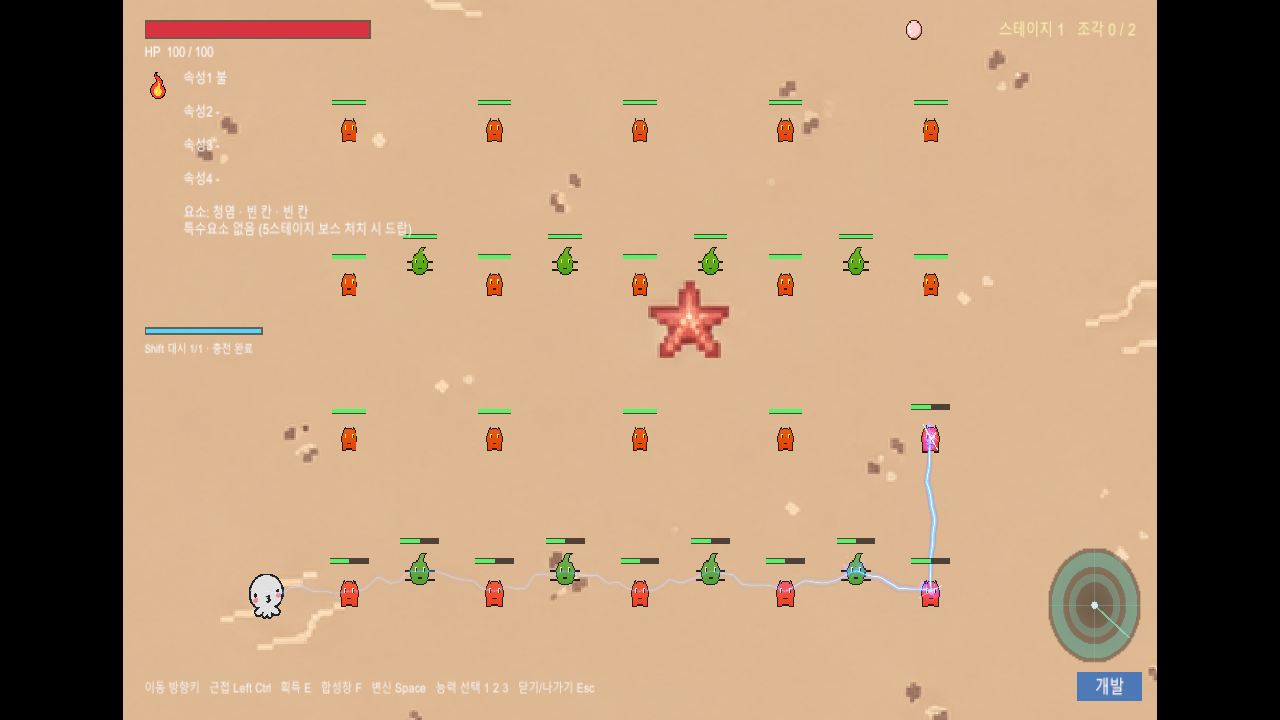
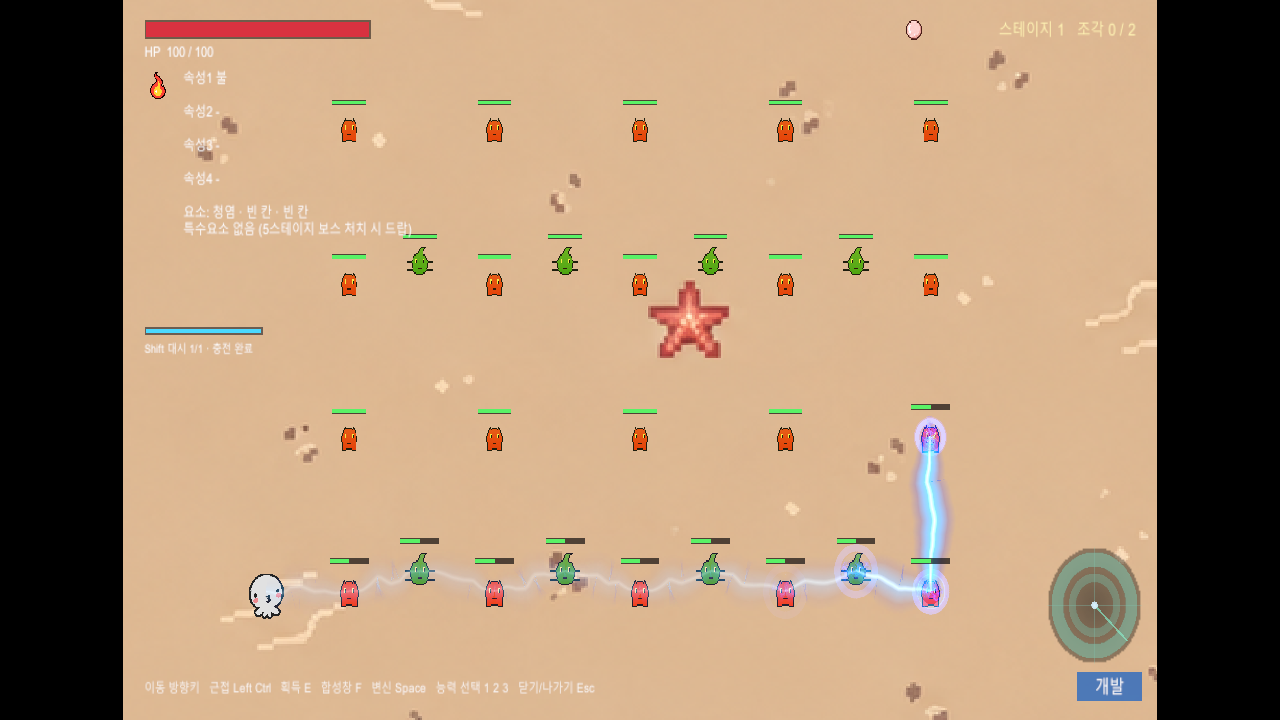
속성: 청염 5배 B농도와 몬스터 맞춤 적중 원 적용

Changed region(s): [[0.375, 0.5806, 0.75, 0.8556], [0.3125, 0.7639, 0.3438, 0.825], [0.25, 0.7944, 0.2812, 0.8556]]

diff --git a/Source/문어_유한맵/Assets/Scripts/Elements/BlueFlameVisual.cs b/Source/문어_유한맵/Assets/Scripts/Elements/BlueFlameVisual.cs
@@ -14,8 +14,10 @@ namespace OctopusSurvivors
         readonly Vector3[] vertices = new Vector3[Points * 3];
         readonly Color[] colors = new Color[Points * 3];
         readonly SpriteRenderer[] embers = new SpriteRenderer[6];
-        SpriteRenderer impact, flame, flameBody, sourceFlare;
+        SpriteRenderer impact, impactHalo, flame, flameBody, sourceFlare;
         float age, duration, seed;
+        float targetDiameter=.7f;
+        bool targetSized;
         bool initialized;
 
         [RuntimeInitializeOnLoadMethod(RuntimeInitializeLoadType.SubsystemRegistration)]
@@ -24,6 +26,9 @@ namespace OctopusSurvivors
         public void Configure(float serverAge, float lifetime)
         {
             age = serverAge; duration = lifetime;
+            if(!targetSized && WorldView.Instance!=null &&
+                WorldView.Instance.TryEnemyBodyDiameter(transform.TransformPoint(Vector3.right),out float diameter))
+            {targetDiameter=diameter;targetSized=true;}
             if (initialized) return;
             initialized = true;
             seed = Mathf.Repeat(transform.position.x * .73f + transform.position.y * 1.37f, 19f);
@@ -54,7 +59,8 @@ namespace OctopusSurvivors
                 var renderer = go.AddComponent<MeshRenderer>(); renderer.sharedMaterial = i == 0 ? bodyMaterial : glowMaterial;
                 renderer.sortingOrder = 13 + i; ribbons[i] = mesh;
             }
-            impact = Sprite("Impact halo", SpriteFactory.Circle(Color.white), 16);
+            impact = Sprite("Impact ring", SpriteFactory.Ring(Color.white), 16);
+            impactHalo = Sprite("Impact halo", SpriteFactory.Circle(Color.white), 15);
             sourceFlare = Sprite("Departure spark", SpriteFactory.Circle(Color.white), 16);
             flame = Sprite("Original blue flame", null, 17);
             flameBody = Sprite("Blue flame color density", null, 16);
@@ -119,17 +125,19 @@ namespace OctopusSurvivors
             float arrived = time >= FlightSeconds ? 1f : 0f;
             float hit = arrived * Mathf.Exp(-impactAge * 15f) * lifeFade;
             float intensity = Mathf.Clamp(UpgradeTuning.Data.blueFlameImpactIntensity,1f,4f);
-            Place(impact, Vector3.right, new Vector2(.32f + impactAge * .9f, .32f + impactAge * .9f) * width / scale,
-                new Color(.03f,.3f,1f,Mathf.Min(1f,hit * .35f * intensity)));
+            float bodySize=targetDiameter*Mathf.Max(.5f,UpgradeTuning.Data.blueFlameImpactBodyScale);
+            float ringSize=targetDiameter*Mathf.Lerp(1.05f,UpgradeTuning.Data.blueFlameImpactRingScale,Mathf.Clamp01(impactAge/.18f));
+            float ringFade=arrived*Mathf.Clamp01(1f-impactAge/.28f)*lifeFade;
+            Place(impact,Vector3.right,Vector2.one*ringSize/scale,new Color(.08f,.5f,1f,Mathf.Min(1f,ringFade*.65f*intensity)));
+            Place(impactHalo,Vector3.right,Vector2.one*bodySize/scale,new Color(.03f,.3f,1f,Mathf.Min(1f,hit*.25f*intensity)));
             float start = Mathf.Exp(-time * 22f) * lifeFade;
             Place(sourceFlare, Vector3.left, Vector2.one * .14f * width / scale, new Color(.25f,.8f,1f,start));
             flame.sprite = HdSpellVisual.Frame("ComboAtlas", 6, 20 + Mathf.Min(3, (int)(impactAge * 16f)));
             float flameAlpha = arrived * Mathf.Clamp01(1f - impactAge / .32f) * lifeFade;
-            float aspect = flame.sprite != null ? flame.sprite.bounds.size.x / flame.sprite.bounds.size.y : 1f;
-            Place(flame, Vector3.right + Vector3.up * impactAge * .3f / scale,
-                new Vector2(aspect,.9f) * .65f * width / scale, new Color(.08f,.5f,1f,Mathf.Min(1f,flameAlpha * .85f * intensity)));
+            Place(flame, Vector3.right + Vector3.up * impactAge * .15f * targetDiameter / scale,
+                Vector2.one * bodySize / scale, new Color(.08f,.5f,1f,Mathf.Min(1f,flameAlpha * .85f * intensity)));
             if (flame.sprite != null)
-                flame.transform.localScale /= flame.sprite.bounds.size.y;
+                flame.transform.localScale /= Mathf.Max(flame.sprite.bounds.size.x,flame.sprite.bounds.size.y);
             // Saturated alpha layer restores blue contrast on bright terrain without enlarging the effect.
             flameBody.sprite = flame.sprite;
             flameBody.transform.localPosition = flame.transform.localPosition;
@@ -139,9 +147,9 @@ namespace OctopusSurvivors
             {
                 float phase = seed + i * 2.39996f;
                 Vector3 velocity = new Vector3(Mathf.Cos(phase), Mathf.Sin(phase) * .6f + .7f, 0f);
-                Vector3 position = Vector3.right + velocity * impactAge * 1.5f / scale;
+                Vector3 position = Vector3.right + velocity * impactAge * targetDiameter * 1.5f / scale;
                 float emberFade = arrived * Mathf.Clamp01(1f - impactAge / (.17f + i * .025f)) * lifeFade;
-                Place(embers[i], position, new Vector2(.025f,.065f) * width / scale, new Color(.1f,.7f,1f,emberFade));
+                Place(embers[i], position, new Vector2(.035f,.09f) * targetDiameter / scale, new Color(.1f,.7f,1f,emberFade));
             }
         }
 

diff --git a/Source/문어_유한맵/Assets/Scripts/World/WorldView.cs b/Source/문어_유한맵/Assets/Scripts/World/WorldView.cs
@@ -18,6 +18,7 @@ namespace OctopusSurvivors
         readonly Dictionary<ushort, Vector3> _basePositions = new Dictionary<ushort, Vector3>();
         readonly HashSet<ushort> _floatingPickups = new HashSet<ushort>();
         readonly HashSet<ushort> _seen = new HashSet<ushort>();
+        readonly Dictionary<ushort, Vector3> _enemyBodies = new Dictionary<ushort, Vector3>();
         bool _hasBoss;
         ushort _bossId;
         Vector2 _bossPos;
@@ -42,6 +43,20 @@ namespace OctopusSurvivors
         public void BeginFrame()
         {
             _seen.Clear();
+        }
+
+        public bool TryEnemyBodyDiameter(Vector2 position, out float diameter)
+        {
+            diameter = .7f;
+            float nearest = float.PositiveInfinity;
+            foreach (var body in _enemyBodies.Values)
+            {
+                float distance = ((Vector2)body-position).sqrMagnitude;
+                float tolerance = Mathf.Max(.75f,body.z);
+                if(distance>tolerance*tolerance || distance>=nearest)continue;
+                nearest=distance;diameter=body.z;
+            }
+            return !float.IsPositiveInfinity(nearest);
         }
 
         public void Show(ushort id, ActorKind kind, Vector2 pos, float size, byte extra, float age = 0f, float duration = 0f, byte hp = 255)
@@ -126,6 +141,8 @@ namespace OctopusSurvivors
             }
             if (kind == ActorKind.Enemy || kind == ActorKind.Boss)
             {
+                float spriteDiameter=sr.sprite!=null?Mathf.Max(sr.sprite.bounds.size.x,sr.sprite.bounds.size.y):1f;
+                _enemyBodies[id]=new Vector3(pos.x,pos.y,Mathf.Max(.15f,size)*spriteDiameter);
                 var impact = sr.GetComponent<ElementHitVisual>() ?? sr.gameObject.AddComponent<ElementHitVisual>();
                 impact.Configure(extra, duration < 1000 ? (ElementId)Mathf.RoundToInt(duration) : ElementId.None);
             }
@@ -187,6 +204,7 @@ namespace OctopusSurvivors
                 if (_views.TryGetValue(id, out var sr) && sr != null)
                     Destroy(sr.gameObject);
                 _views.Remove(id);
+                _enemyBodies.Remove(id);
                 _target.Remove(id);
                 _basePositions.Remove(id);
                 _floatingPickups.Remove(id);
@@ -206,6 +224,7 @@ namespace OctopusSurvivors
             }
 
             _views.Clear();
+            _enemyBodies.Clear();
             _target.Clear();
             _basePositions.Clear();
             _floatingPickups.Clear();

diff --git a/Source/문어_유한맵/Assets/Scripts/Net/CoopSystemChecks.cs b/Source/문어_유한맵/Assets/Scripts/Net/CoopSystemChecks.cs
@@ -595,6 +595,29 @@ namespace OctopusSurvivors
             for(int i=0;i<10&&!single.Dead;i++) Call(s,"TickPlannedAbility",single,.1f);
             Check(single.Dead&&single.Mark==1,"chain ends safely when no unhit target remains");
 
+            ResetField(s);
+            var small=Target(s,new Vector2(2,0));small.Size=.4f;
+            var large=Target(s,new Vector2(6,0));large.Size=1.2f;
+            Call(s,"RenderLocal");
+            Check(WorldView.Instance.TryEnemyBodyDiameter(small.Pos,out float smallDiameter)&&
+                WorldView.Instance.TryEnemyBodyDiameter(large.Pos,out float largeDiameter)&&
+                Mathf.Abs(largeDiameter/smallDiameter-3f)<.01f,"impact sizing follows small and large monster bodies");
+            var bodySource=s.SpawnPersistent(ActorKind.ChainEmitter,Vector2.zero,Vector2.zero,4.5f,3f,40f,p,StatusMask.None);
+            bodySource.Duration=3f;
+            Call(s,"ShowBlueFlameArc",bodySource,Vector2.zero,small.Pos);
+            Call(s,"ShowBlueFlameArc",bodySource,small.Pos,large.Pos);
+            Call(s,"RenderLocal");
+            var views=(Dictionary<ushort,SpriteRenderer>)typeof(WorldView).GetField("_views",Hidden).GetValue(WorldView.Instance);
+            foreach(var arc in Actors(s).FindAll(a=>a.Kind==ActorKind.ChainArc))
+            {
+                var v=views[arc.Id].GetComponent<BlueFlameVisual>();v.RenderAt(.1f);
+                var body=v.transform.Find("Original blue flame").GetComponent<SpriteRenderer>();
+                Vector2 end=arc.Pos+arc.Vel.normalized*arc.Size;
+                WorldView.Instance.TryEnemyBodyDiameter(end,out float diameter);
+                Check(Mathf.Abs(Mathf.Max(body.bounds.size.x,body.bounds.size.y)-diameter*UpgradeTuning.Data.blueFlameImpactBodyScale)<.02f,
+                    "actual hit sprite fits monster independently of 5x beam scale");
+            }
+
             // Real game render, using the same snapshots, camera and enemy art as normal play.
             ResetField(s);
             p.transform.position=new Vector3(-9,-4.5f,0); p.NetPos.Value=new Vector2(-9,-4.5f);

diff --git a/Source/문어_유한맵/Assets/Scripts/Core/UpgradeTuning.cs b/Source/문어_유한맵/Assets/Scripts/Core/UpgradeTuning.cs
@@ -19,8 +19,10 @@ namespace OctopusSurvivors
         [Min(0)] public float blueFlameSplashRangePerLevel = .3f;
         [Min(.1f)] public float blueFlameBurstInterval = .6f;
         [Min(1)] public int blueFlameChainTargets = 20;
-        [Min(.1f)] public float blueFlameVisualScale = 1f;
-        [Range(1f, 4f)] public float blueFlameImpactIntensity = 1f;
+        [Min(.1f)] public float blueFlameVisualScale = 5f;
+        [Range(1f, 4f)] public float blueFlameImpactIntensity = 1.5f;
+        [Min(.5f)] public float blueFlameImpactBodyScale = 1.15f;
+        [Min(1f)] public float blueFlameImpactRingScale = 1.55f;
         [Min(.1f)] public float blueFlameCorridorRadius = .65f;
         [Range(0, 1)] public float blueFlameSplashDamageMultiplier = .5f;
         [Min(.1f)] public float thornDuration = 3f, thornTick = .4f;

diff --git a/docs/검증/README.md b/docs/검증/README.md
@@ -130,3 +130,4 @@ Relay 자동 검증에서만 사용하는 참가 코드 파일의 읽기/쓰기 
 - [실제 Unity 전투 GIF](blueflame-preview.gif), [전이 중](host-balance-blueflame-44.png), [연결 경로](host-balance-blueflame-84.png). 정지된 적과 수동 시뮬레이션을 쓰는 통제 검사이며, 두 PC/Relay 및 정상 장기 플레이 밸런스는 이번에 검증하지 않았다.
 - 같은 전투 프레임의 시각 배율 비교: [3배](host-balance-blueflame-size-3.png), [5배](host-balance-blueflame-size-5.png), [10배](host-balance-blueflame-size-10.png). 번개 폭·섬광·불씨 배율만 변경하고 캡처 직후 기본1로 복구했다. 피해 범위는 변경하지 않았다.
 - 적중점의 둥근 전기/청염 농도 [4종 확대 비교](blueflame-hit-comparison.png): A=1(현재), B=1.5, C=2, D=3. 같은 프레임·크기·카메라로 실제 Unity 렌더 후 동일 영역을 잘라 배치했다. blueFlameImpactIntensity는 촬영 후1로 복구했고 시각 배율도1 유지. Play Mode 검사는 PASS.
+- 최종 선택: 연결 번개5배/B농도1.5 적용. 몸 전기 효과는 몬스터 지름의1.15배, 원형 적중 링은1.55배까지 퍼지도록 연결 배율과 분리했다. 크기0.4/1.2 적의 몸 지름 비율3배 및 실제 적중 스프라이트 bounds 일치를 Unity Play Mode에서 확인했다. 최신 GIF와 전투 스틸은 이 선택값으로 갱신했다. 앞선 3/5/10 및 A~D 이미지는 이전 디자인의 비교 기록이다.

diff --git a/docs/구조/abilities/NOTES.md b/docs/구조/abilities/NOTES.md
@@ -1,5 +1,7 @@
 # 최근 변경
 
+- 2026-10-15: 사용자 선택 적용: 연결 번개5배, 적중 농도B(1.5). 적중 불꽃은 몬스터 몸 지름×1.15로 맞추고 원형 링은 몸 지름×1.55까지 확산한다. WorldView의 몸 크기 정보로 적중 외형을 정하며 번개 배율에서 분리했다. 작은/큰 적의 실제 렌더 bounds 검사를 포함한 Unity Play Mode PASS. 최신 GIF/전투 캡처 갱신.
+
 - 2026-10-15: 몬스터 몸의 청염 적중 불꽃 농도 비교(1/1.5/2/3)를 추가. blueFlameImpactIntensity로 원본 그림의 불투명도와 푸른 대비층만 조절하며 크기/연결선/피해는 유지. 같은 프레임 확대 비교를 촬영하고 기본 농도1로 복구했다. 사용자가 선택하기 전 기본 농도는 변경하지 않음.
 
 - 2026-10-15: 청염 적중점의 흰 막대형 섬광(Impact needle)을 제거했다. 연결 불꽃·푸른 후광·불씨는 유지한다. 이전 배율 비교 캡처에는 제거 전 막대가 보인다.

diff --git a/docs/구조/maps/NOTES.md b/docs/구조/maps/NOTES.md
@@ -1,4 +1,6 @@
 # 최근 변경
 
+- 2026-10-15: WorldView가 적 스프라이트와 서버 크기에서 몸 지름을 보관하여 청염 적중 표시 크기에 제공한다. 적 제거/필드 초기화 때 해당 캐시도 정리한다.
+
 - 2026-10-13: 실제 `Beach.bytes`는 5760×3240. 카메라 8.5와 캐릭터·몬스터 크기를 유지하고 필드를 가로·세로 각각 기존의 2/3(약 60.44×34 월드 단위)로 축소했다. 원본 비율과 Point 필터를 유지하며 해안·바위 판정도 같은 치수를 사용한다.
 - `FiniteMapChecks`의 과거 3×3 화면 기준을 2×2 및 실제 이미지 비율로 수정했다. 중앙 스폰·해안·바위·72방향 이동·범위 밖 스폰 검사를 빌드 검사에 연결했다.

diff --git a/docs/구조/abilities/README.md b/docs/구조/abilities/README.md
@@ -85,8 +85,8 @@
 
 ## `Assets/Scripts/Elements/BlueFlameVisual.cs` 진입 함수
 
-- `Configure` — 24행 (행 번호는 색인 생성 시점, 수정 후 함수명으로 재검색)
-- `RenderAt` — 79행 (행 번호는 색인 생성 시점, 수정 후 함수명으로 재검색)
+- `Configure` — 26행 (행 번호는 색인 생성 시점, 수정 후 함수명으로 재검색)
+- `RenderAt` — 86행 (행 번호는 색인 생성 시점, 수정 후 함수명으로 재검색)
 
 ## `Assets/Scripts/Elements/TreeAbility.cs` 진입 함수
 

diff --git a/docs/구조/maps/README.md b/docs/구조/maps/README.md
@@ -16,6 +16,10 @@
 - `Source/문어_유한맵/Assets/Scripts/Core/GameConfig.cs`
 - `Source/문어_유한맵/Assets/Scripts/Core/RuntimeArt.cs`
 
+## `Assets/Scripts/World/WorldView.cs` 진입 함수
+
+- `TryEnemyBodyDiameter` — 48행 (행 번호는 색인 생성 시점, 수정 후 함수명으로 재검색)
+
 ## `Assets/Scripts/World/GameSession.cs` 진입 함수
 
 - `RandomInterior` — 1966행 (행 번호는 색인 생성 시점, 수정 후 함수명으로 재검색)
